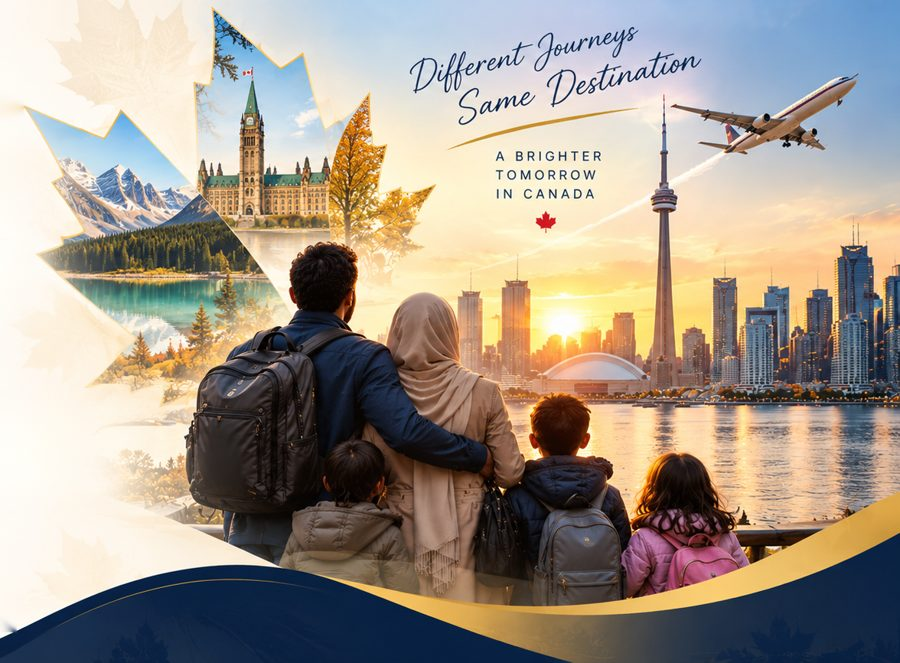
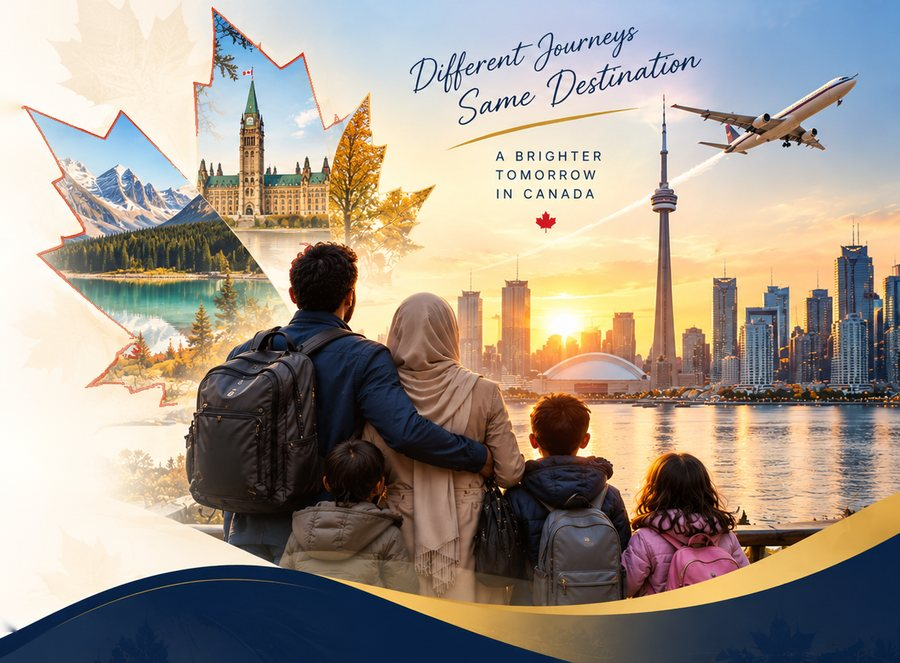
Hero: red maple-leaf outline, small Canadian flag in top bar and hero

diff --git a/index.html b/index.html
@@ -74,7 +74,7 @@
     <div class="tb-info">
       <a href="tel:+14039154230" class="notranslate" translate="no"><svg><use href="#i-phone"/></svg>(403) 915-4230</a>
       <a href="mailto:info@gracefulimmigration.ca" class="tb-mail notranslate" translate="no"><svg><use href="#i-mail"/></svg>info@gracefulimmigration.ca</a>
-      <span class="tb-online"><svg><use href="#i-chat"/></svg>Online consultations across Canada via Zoom &amp; Microsoft Teams</span>
+      <span class="tb-online"><svg><use href="#i-chat"/></svg>Online consultations across Canada <svg class="ca-flag" viewBox="0 0 40 20" role="img" aria-label="Canada"><rect width="40" height="20" fill="#fff"/><rect width="10" height="20" fill="#D52B1E"/><rect x="30" width="10" height="20" fill="#D52B1E"/><path fill="#D52B1E" transform="translate(13 3) scale(.14)" d="M50 2l8 16 8-4-3 20 13-12 4 8 14-2-6 16 8 4-22 16 4 8-24-4v30h-8V68l-24 4 4-8L4 48l8-4-6-16 14 2 4-8 13 12-3-20 8 4z"/></svg> via Zoom &amp; Microsoft Teams</span>
     </div>
   <div class="lang-switch notranslate" translate="no">
     <button class="lang-btn" type="button" aria-label="Choose language"><svg><use href="#i-globe"/></svg><span class="lang-cur">EN</span><svg class="lc"><use href="#i-chev"/></svg></button>
@@ -174,7 +174,7 @@
 <section class="hero2">
   <div class="h2-art" role="img" aria-label="A newcomer family looking at the Toronto skyline at sunrise, beside a maple-leaf collage of the Rockies, Parliament Hill and autumn in Canada"></div>
   <div class="h2-copy">
-    <span class="h2-eyebrow">People <i>·</i> Families <i>·</i> New Beginnings</span>
+    <span class="h2-eyebrow"><svg class="ca-flag" viewBox="0 0 40 20" role="img" aria-label="Canada"><rect width="40" height="20" fill="#fff"/><rect width="10" height="20" fill="#D52B1E"/><rect x="30" width="10" height="20" fill="#D52B1E"/><path fill="#D52B1E" transform="translate(13 3) scale(.14)" d="M50 2l8 16 8-4-3 20 13-12 4 8 14-2-6 16 8 4-22 16 4 8-24-4v30h-8V68l-24 4 4-8L4 48l8-4-6-16 14 2 4-8 13 12-3-20 8 4z"/></svg>People <i>·</i> Families <i>·</i> New Beginnings</span>
     <h1><span class="h2-l">Turning</span> <span class="h2-l gold">Your Dreams<svg class="h2-leaf" aria-hidden="true"><use href="#i-maple"/></svg></span> <span class="h2-l">into New Beginnings</span></h1>
     <p class="h2-lead">Guiding individuals and families through their immigration journey with trusted advice, personalized support, and a commitment to your future in Canada.</p>
     <p class="h2-lic"><svg aria-hidden="true"><use href="#i-shield"/></svg>Licensed immigration consultant (RCIC-IRB) · English, Tigrinya, Amharic &amp; Arabic · Online across Canada</p>

diff --git a/public/index.html b/public/index.html
@@ -73,7 +73,7 @@
     <div class="tb-info">
       <a href="tel:+14039154230" class="notranslate" translate="no"><svg><use href="#i-phone"/></svg>(403) 915-4230</a>
       <a href="mailto:info@gracefulimmigration.ca" class="tb-mail notranslate" translate="no"><svg><use href="#i-mail"/></svg>info@gracefulimmigration.ca</a>
-      <span class="tb-online"><svg><use href="#i-chat"/></svg>Online consultations across Canada via Zoom &amp; Microsoft Teams</span>
+      <span class="tb-online"><svg><use href="#i-chat"/></svg>Online consultations across Canada <svg class="ca-flag" viewBox="0 0 40 20" role="img" aria-label="Canada"><rect width="40" height="20" fill="#fff"/><rect width="10" height="20" fill="#D52B1E"/><rect x="30" width="10" height="20" fill="#D52B1E"/><path fill="#D52B1E" transform="translate(13 3) scale(.14)" d="M50 2l8 16 8-4-3 20 13-12 4 8 14-2-6 16 8 4-22 16 4 8-24-4v30h-8V68l-24 4 4-8L4 48l8-4-6-16 14 2 4-8 13 12-3-20 8 4z"/></svg> via Zoom &amp; Microsoft Teams</span>
     </div>
   <div class="lang-switch notranslate" translate="no">
     <button class="lang-btn" type="button" aria-label="Choose language"><svg><use href="#i-globe"/></svg><span class="lang-cur">EN</span><svg class="lc"><use href="#i-chev"/></svg></button>
@@ -173,7 +173,7 @@
 <section class="hero2">
   <div class="h2-art" role="img" aria-label="A newcomer family looking at the Toronto skyline at sunrise, beside a maple-leaf collage of the Rockies, Parliament Hill and autumn in Canada"></div>
   <div class="h2-copy">
-    <span class="h2-eyebrow">People <i>·</i> Families <i>·</i> New Beginnings</span>
+    <span class="h2-eyebrow"><svg class="ca-flag" viewBox="0 0 40 20" role="img" aria-label="Canada"><rect width="40" height="20" fill="#fff"/><rect width="10" height="20" fill="#D52B1E"/><rect x="30" width="10" height="20" fill="#D52B1E"/><path fill="#D52B1E" transform="translate(13 3) scale(.14)" d="M50 2l8 16 8-4-3 20 13-12 4 8 14-2-6 16 8 4-22 16 4 8-24-4v30h-8V68l-24 4 4-8L4 48l8-4-6-16 14 2 4-8 13 12-3-20 8 4z"/></svg>People <i>·</i> Families <i>·</i> New Beginnings</span>
     <h1><span class="h2-l">Turning</span> <span class="h2-l gold">Your Dreams<svg class="h2-leaf" aria-hidden="true"><use href="#i-maple"/></svg></span> <span class="h2-l">into New Beginnings</span></h1>
     <p class="h2-lead">Guiding individuals and families through their immigration journey with trusted advice, personalized support, and a commitment to your future in Canada.</p>
     <p class="h2-lic"><svg aria-hidden="true"><use href="#i-shield"/></svg>Licensed immigration consultant (RCIC-IRB) · English, Tigrinya, Amharic &amp; Arabic · Online across Canada</p>

diff --git a/public/assessment.html b/public/assessment.html
@@ -124,7 +124,7 @@ html.embed .site-header,html.embed .site-footer{display:none}
     <div class="tb-info">
       <a href="tel:+14039154230" class="notranslate" translate="no"><svg><use href="#i-phone"/></svg>(403) 915-4230</a>
       <a href="mailto:info@gracefulimmigration.ca" class="tb-mail notranslate" translate="no"><svg><use href="#i-mail"/></svg>info@gracefulimmigration.ca</a>
-      <span class="tb-online"><svg><use href="#i-chat"/></svg>Online consultations across Canada via Zoom &amp; Microsoft Teams</span>
+      <span class="tb-online"><svg><use href="#i-chat"/></svg>Online consultations across Canada <svg class="ca-flag" viewBox="0 0 40 20" role="img" aria-label="Canada"><rect width="40" height="20" fill="#fff"/><rect width="10" height="20" fill="#D52B1E"/><rect x="30" width="10" height="20" fill="#D52B1E"/><path fill="#D52B1E" transform="translate(13 3) scale(.14)" d="M50 2l8 16 8-4-3 20 13-12 4 8 14-2-6 16 8 4-22 16 4 8-24-4v30h-8V68l-24 4 4-8L4 48l8-4-6-16 14 2 4-8 13 12-3-20 8 4z"/></svg> via Zoom &amp; Microsoft Teams</span>
     </div>
   <div class="lang-switch notranslate" translate="no">
     <button class="lang-btn" type="button" aria-label="Choose language"><svg><use href="#i-globe"/></svg><span class="lang-cur">EN</span><svg class="lc"><use href="#i-chev"/></svg></button>

diff --git a/public/alberta-pnp-aaip.html b/public/alberta-pnp-aaip.html
@@ -54,7 +54,7 @@
     <div class="tb-info">
       <a href="tel:+14039154230" class="notranslate" translate="no"><svg><use href="#i-phone"/></svg>(403) 915-4230</a>
       <a href="mailto:info@gracefulimmigration.ca" class="tb-mail notranslate" translate="no"><svg><use href="#i-mail"/></svg>info@gracefulimmigration.ca</a>
-      <span class="tb-online"><svg><use href="#i-chat"/></svg>Online consultations across Canada via Zoom &amp; Microsoft Teams</span>
+      <span class="tb-online"><svg><use href="#i-chat"/></svg>Online consultations across Canada <svg class="ca-flag" viewBox="0 0 40 20" role="img" aria-label="Canada"><rect width="40" height="20" fill="#fff"/><rect width="10" height="20" fill="#D52B1E"/><rect x="30" width="10" height="20" fill="#D52B1E"/><path fill="#D52B1E" transform="translate(13 3) scale(.14)" d="M50 2l8 16 8-4-3 20 13-12 4 8 14-2-6 16 8 4-22 16 4 8-24-4v30h-8V68l-24 4 4-8L4 48l8-4-6-16 14 2 4-8 13 12-3-20 8 4z"/></svg> via Zoom &amp; Microsoft Teams</span>
     </div>
   <div class="lang-switch notranslate" translate="no">
     <button class="lang-btn" type="button" aria-label="Choose language"><svg><use href="#i-globe"/></svg><span class="lang-cur">EN</span><svg class="lc"><use href="#i-chev"/></svg></button>

diff --git a/public/amharic-immigration-consultant.html b/public/amharic-immigration-consultant.html
@@ -54,7 +54,7 @@
     <div class="tb-info">
       <a href="tel:+14039154230" class="notranslate" translate="no"><svg><use href="#i-phone"/></svg>(403) 915-4230</a>
       <a href="mailto:info@gracefulimmigration.ca" class="tb-mail notranslate" translate="no"><svg><use href="#i-mail"/></svg>info@gracefulimmigration.ca</a>
-      <span class="tb-online"><svg><use href="#i-chat"/></svg>Online consultations across Canada via Zoom &amp; Microsoft Teams</span>
+      <span class="tb-online"><svg><use href="#i-chat"/></svg>Online consultations across Canada <svg class="ca-flag" viewBox="0 0 40 20" role="img" aria-label="Canada"><rect width="40" height="20" fill="#fff"/><rect width="10" height="20" fill="#D52B1E"/><rect x="30" width="10" height="20" fill="#D52B1E"/><path fill="#D52B1E" transform="translate(13 3) scale(.14)" d="M50 2l8 16 8-4-3 20 13-12 4 8 14-2-6 16 8 4-22 16 4 8-24-4v30h-8V68l-24 4 4-8L4 48l8-4-6-16 14 2 4-8 13 12-3-20 8 4z"/></svg> via Zoom &amp; Microsoft Teams</span>
     </div>
   <div class="lang-switch notranslate" translate="no">
     <button class="lang-btn" type="button" aria-label="Choose language"><svg><use href="#i-globe"/></svg><span class="lang-cur">EN</span><svg class="lc"><use href="#i-chev"/></svg></button>

diff --git a/public/arabic-immigration-consultant.html b/public/arabic-immigration-consultant.html
@@ -54,7 +54,7 @@
     <div class="tb-info">
       <a href="tel:+14039154230" class="notranslate" translate="no"><svg><use href="#i-phone"/></svg>(403) 915-4230</a>
       <a href="mailto:info@gracefulimmigration.ca" class="tb-mail notranslate" translate="no"><svg><use href="#i-mail"/></svg>info@gracefulimmigration.ca</a>
-      <span class="tb-online"><svg><use href="#i-chat"/></svg>Online consultations across Canada via Zoom &amp; Microsoft Teams</span>
+      <span class="tb-online"><svg><use href="#i-chat"/></svg>Online consultations across Canada <svg class="ca-flag" viewBox="0 0 40 20" role="img" aria-label="Canada"><rect width="40" height="20" fill="#fff"/><rect width="10" height="20" fill="#D52B1E"/><rect x="30" width="10" height="20" fill="#D52B1E"/><path fill="#D52B1E" transform="translate(13 3) scale(.14)" d="M50 2l8 16 8-4-3 20 13-12 4 8 14-2-6 16 8 4-22 16 4 8-24-4v30h-8V68l-24 4 4-8L4 48l8-4-6-16 14 2 4-8 13 12-3-20 8 4z"/></svg> via Zoom &amp; Microsoft Teams</span>
     </div>
   <div class="lang-switch notranslate" translate="no">
     <button class="lang-btn" type="button" aria-label="Choose language"><svg><use href="#i-globe"/></svg><span class="lang-cur">EN</span><svg class="lc"><use href="#i-chev"/></svg></button>

diff --git a/public/blog.html b/public/blog.html
@@ -51,7 +51,7 @@
     <div class="tb-info">
       <a href="tel:+14039154230" class="notranslate" translate="no"><svg><use href="#i-phone"/></svg>(403) 915-4230</a>
       <a href="mailto:info@gracefulimmigration.ca" class="tb-mail notranslate" translate="no"><svg><use href="#i-mail"/></svg>info@gracefulimmigration.ca</a>
-      <span class="tb-online"><svg><use href="#i-chat"/></svg>Online consultations across Canada via Zoom &amp; Microsoft Teams</span>
+      <span class="tb-online"><svg><use href="#i-chat"/></svg>Online consultations across Canada <svg class="ca-flag" viewBox="0 0 40 20" role="img" aria-label="Canada"><rect width="40" height="20" fill="#fff"/><rect width="10" height="20" fill="#D52B1E"/><rect x="30" width="10" height="20" fill="#D52B1E"/><path fill="#D52B1E" transform="translate(13 3) scale(.14)" d="M50 2l8 16 8-4-3 20 13-12 4 8 14-2-6 16 8 4-22 16 4 8-24-4v30h-8V68l-24 4 4-8L4 48l8-4-6-16 14 2 4-8 13 12-3-20 8 4z"/></svg> via Zoom &amp; Microsoft Teams</span>
     </div>
   <div class="lang-switch notranslate" translate="no">
     <button class="lang-btn" type="button" aria-label="Choose language"><svg><use href="#i-globe"/></svg><span class="lang-cur">EN</span><svg class="lc"><use href="#i-chev"/></svg></button>

diff --git a/public/book.html b/public/book.html
@@ -51,7 +51,7 @@
     <div class="tb-info">
       <a href="tel:+14039154230" class="notranslate" translate="no"><svg><use href="#i-phone"/></svg>(403) 915-4230</a>
       <a href="mailto:info@gracefulimmigration.ca" class="tb-mail notranslate" translate="no"><svg><use href="#i-mail"/></svg>info@gracefulimmigration.ca</a>
-      <span class="tb-online"><svg><use href="#i-chat"/></svg>Online consultations across Canada via Zoom &amp; Microsoft Teams</span>
+      <span class="tb-online"><svg><use href="#i-chat"/></svg>Online consultations across Canada <svg class="ca-flag" viewBox="0 0 40 20" role="img" aria-label="Canada"><rect width="40" height="20" fill="#fff"/><rect width="10" height="20" fill="#D52B1E"/><rect x="30" width="10" height="20" fill="#D52B1E"/><path fill="#D52B1E" transform="translate(13 3) scale(.14)" d="M50 2l8 16 8-4-3 20 13-12 4 8 14-2-6 16 8 4-22 16 4 8-24-4v30h-8V68l-24 4 4-8L4 48l8-4-6-16 14 2 4-8 13 12-3-20 8 4z"/></svg> via Zoom &amp; Microsoft Teams</span>
     </div>
   <div class="lang-switch notranslate" translate="no">
     <button class="lang-btn" type="button" aria-label="Choose language"><svg><use href="#i-globe"/></svg><span class="lang-cur">EN</span><svg class="lc"><use href="#i-chev"/></svg></button>

diff --git a/public/citizenship-pr-card.html b/public/citizenship-pr-card.html
@@ -54,7 +54,7 @@
     <div class="tb-info">
       <a href="tel:+14039154230" class="notranslate" translate="no"><svg><use href="#i-phone"/></svg>(403) 915-4230</a>
       <a href="mailto:info@gracefulimmigration.ca" class="tb-mail notranslate" translate="no"><svg><use href="#i-mail"/></svg>info@gracefulimmigration.ca</a>
-      <span class="tb-online"><svg><use href="#i-chat"/></svg>Online consultations across Canada via Zoom &amp; Microsoft Teams</span>
+      <span class="tb-online"><svg><use href="#i-chat"/></svg>Online consultations across Canada <svg class="ca-flag" viewBox="0 0 40 20" role="img" aria-label="Canada"><rect width="40" height="20" fill="#fff"/><rect width="10" height="20" fill="#D52B1E"/><rect x="30" width="10" height="20" fill="#D52B1E"/><path fill="#D52B1E" transform="translate(13 3) scale(.14)" d="M50 2l8 16 8-4-3 20 13-12 4 8 14-2-6 16 8 4-22 16 4 8-24-4v30h-8V68l-24 4 4-8L4 48l8-4-6-16 14 2 4-8 13 12-3-20 8 4z"/></svg> via Zoom &amp; Microsoft Teams</span>
     </div>
   <div class="lang-switch notranslate" translate="no">
     <button class="lang-btn" type="button" aria-label="Choose language"><svg><use href="#i-globe"/></svg><span class="lang-cur">EN</span><svg class="lc"><use href="#i-chev"/></svg></button>

diff --git a/public/express-entry.html b/public/express-entry.html
@@ -54,7 +54,7 @@
     <div class="tb-info">
       <a href="tel:+14039154230" class="notranslate" translate="no"><svg><use href="#i-phone"/></svg>(403) 915-4230</a>
       <a href="mailto:info@gracefulimmigration.ca" class="tb-mail notranslate" translate="no"><svg><use href="#i-mail"/></svg>info@gracefulimmigration.ca</a>
-      <span class="tb-online"><svg><use href="#i-chat"/></svg>Online consultations across Canada via Zoom &amp; Microsoft Teams</span>
+      <span class="tb-online"><svg><use href="#i-chat"/></svg>Online consultations across Canada <svg class="ca-flag" viewBox="0 0 40 20" role="img" aria-label="Canada"><rect width="40" height="20" fill="#fff"/><rect width="10" height="20" fill="#D52B1E"/><rect x="30" width="10" height="20" fill="#D52B1E"/><path fill="#D52B1E" transform="translate(13 3) scale(.14)" d="M50 2l8 16 8-4-3 20 13-12 4 8 14-2-6 16 8 4-22 16 4 8-24-4v30h-8V68l-24 4 4-8L4 48l8-4-6-16 14 2 4-8 13 12-3-20 8 4z"/></svg> via Zoom &amp; Microsoft Teams</span>
     </div>
   <div class="lang-switch notranslate" translate="no">
     <button class="lang-btn" type="button" aria-label="Choose language"><svg><use href="#i-globe"/></svg><span class="lang-cur">EN</span><svg class="lc"><use href="#i-chev"/></svg></button>

diff --git a/public/news.html b/public/news.html
@@ -51,7 +51,7 @@
     <div class="tb-info">
       <a href="tel:+14039154230" class="notranslate" translate="no"><svg><use href="#i-phone"/></svg>(403) 915-4230</a>
       <a href="mailto:info@gracefulimmigration.ca" class="tb-mail notranslate" translate="no"><svg><use href="#i-mail"/></svg>info@gracefulimmigration.ca</a>
-      <span class="tb-online"><svg><use href="#i-chat"/></svg>Online consultations across Canada via Zoom &amp; Microsoft Teams</span>
+      <span class="tb-online"><svg><use href="#i-chat"/></svg>Online consultations across Canada <svg class="ca-flag" viewBox="0 0 40 20" role="img" aria-label="Canada"><rect width="40" height="20" fill="#fff"/><rect width="10" height="20" fill="#D52B1E"/><rect x="30" width="10" height="20" fill="#D52B1E"/><path fill="#D52B1E" transform="translate(13 3) scale(.14)" d="M50 2l8 16 8-4-3 20 13-12 4 8 14-2-6 16 8 4-22 16 4 8-24-4v30h-8V68l-24 4 4-8L4 48l8-4-6-16 14 2 4-8 13 12-3-20 8 4z"/></svg> via Zoom &amp; Microsoft Teams</span>
     </div>
   <div class="lang-switch notranslate" translate="no">
     <button class="lang-btn" type="button" aria-label="Choose language"><svg><use href="#i-globe"/></svg><span class="lang-cur">EN</span><svg class="lc"><use href="#i-chev"/></svg></button>

diff --git a/public/privacy.html b/public/privacy.html
@@ -50,7 +50,7 @@
     <div class="tb-info">
       <a href="tel:+14039154230" class="notranslate" translate="no"><svg><use href="#i-phone"/></svg>(403) 915-4230</a>
       <a href="mailto:info@gracefulimmigration.ca" class="tb-mail notranslate" translate="no"><svg><use href="#i-mail"/></svg>info@gracefulimmigration.ca</a>
-      <span class="tb-online"><svg><use href="#i-chat"/></svg>Online consultations across Canada via Zoom &amp; Microsoft Teams</span>
+      <span class="tb-online"><svg><use href="#i-chat"/></svg>Online consultations across Canada <svg class="ca-flag" viewBox="0 0 40 20" role="img" aria-label="Canada"><rect width="40" height="20" fill="#fff"/><rect width="10" height="20" fill="#D52B1E"/><rect x="30" width="10" height="20" fill="#D52B1E"/><path fill="#D52B1E" transform="translate(13 3) scale(.14)" d="M50 2l8 16 8-4-3 20 13-12 4 8 14-2-6 16 8 4-22 16 4 8-24-4v30h-8V68l-24 4 4-8L4 48l8-4-6-16 14 2 4-8 13 12-3-20 8 4z"/></svg> via Zoom &amp; Microsoft Teams</span>
     </div>
   <div class="lang-switch notranslate" translate="no">
     <button class="lang-btn" type="button" aria-label="Choose language"><svg><use href="#i-globe"/></svg><span class="lang-cur">EN</span><svg class="lc"><use href="#i-chev"/></svg></button>
